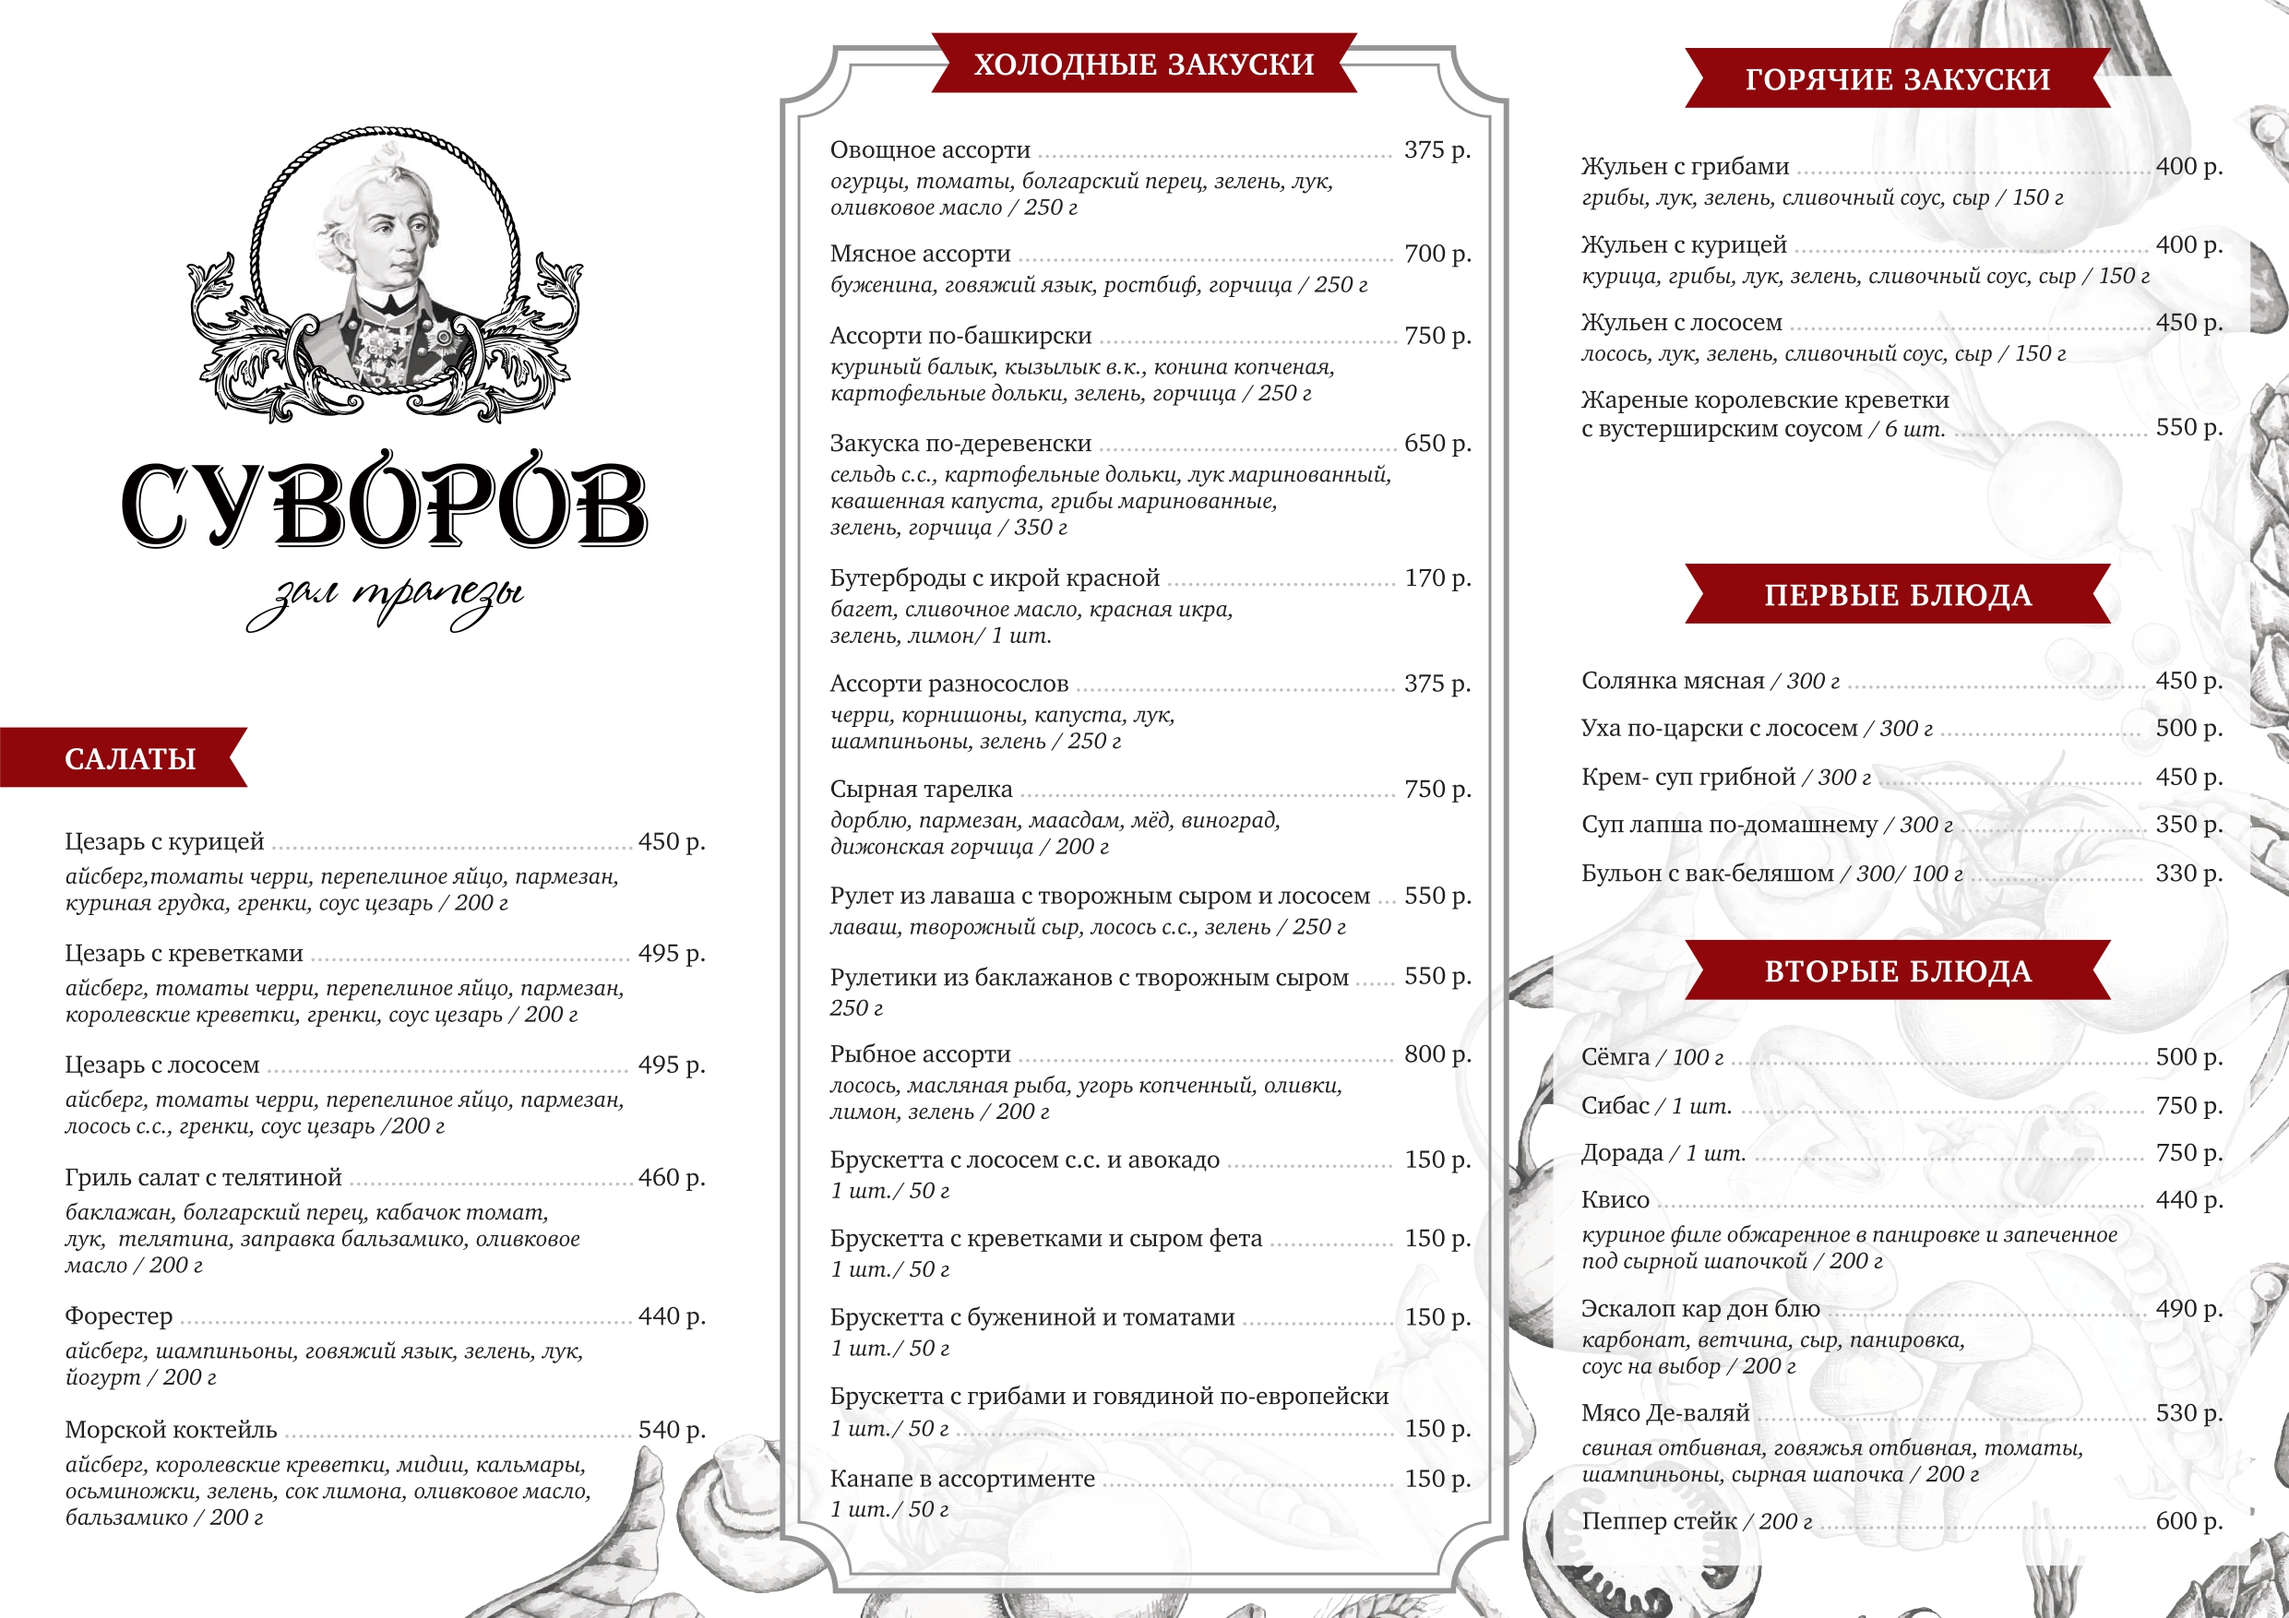
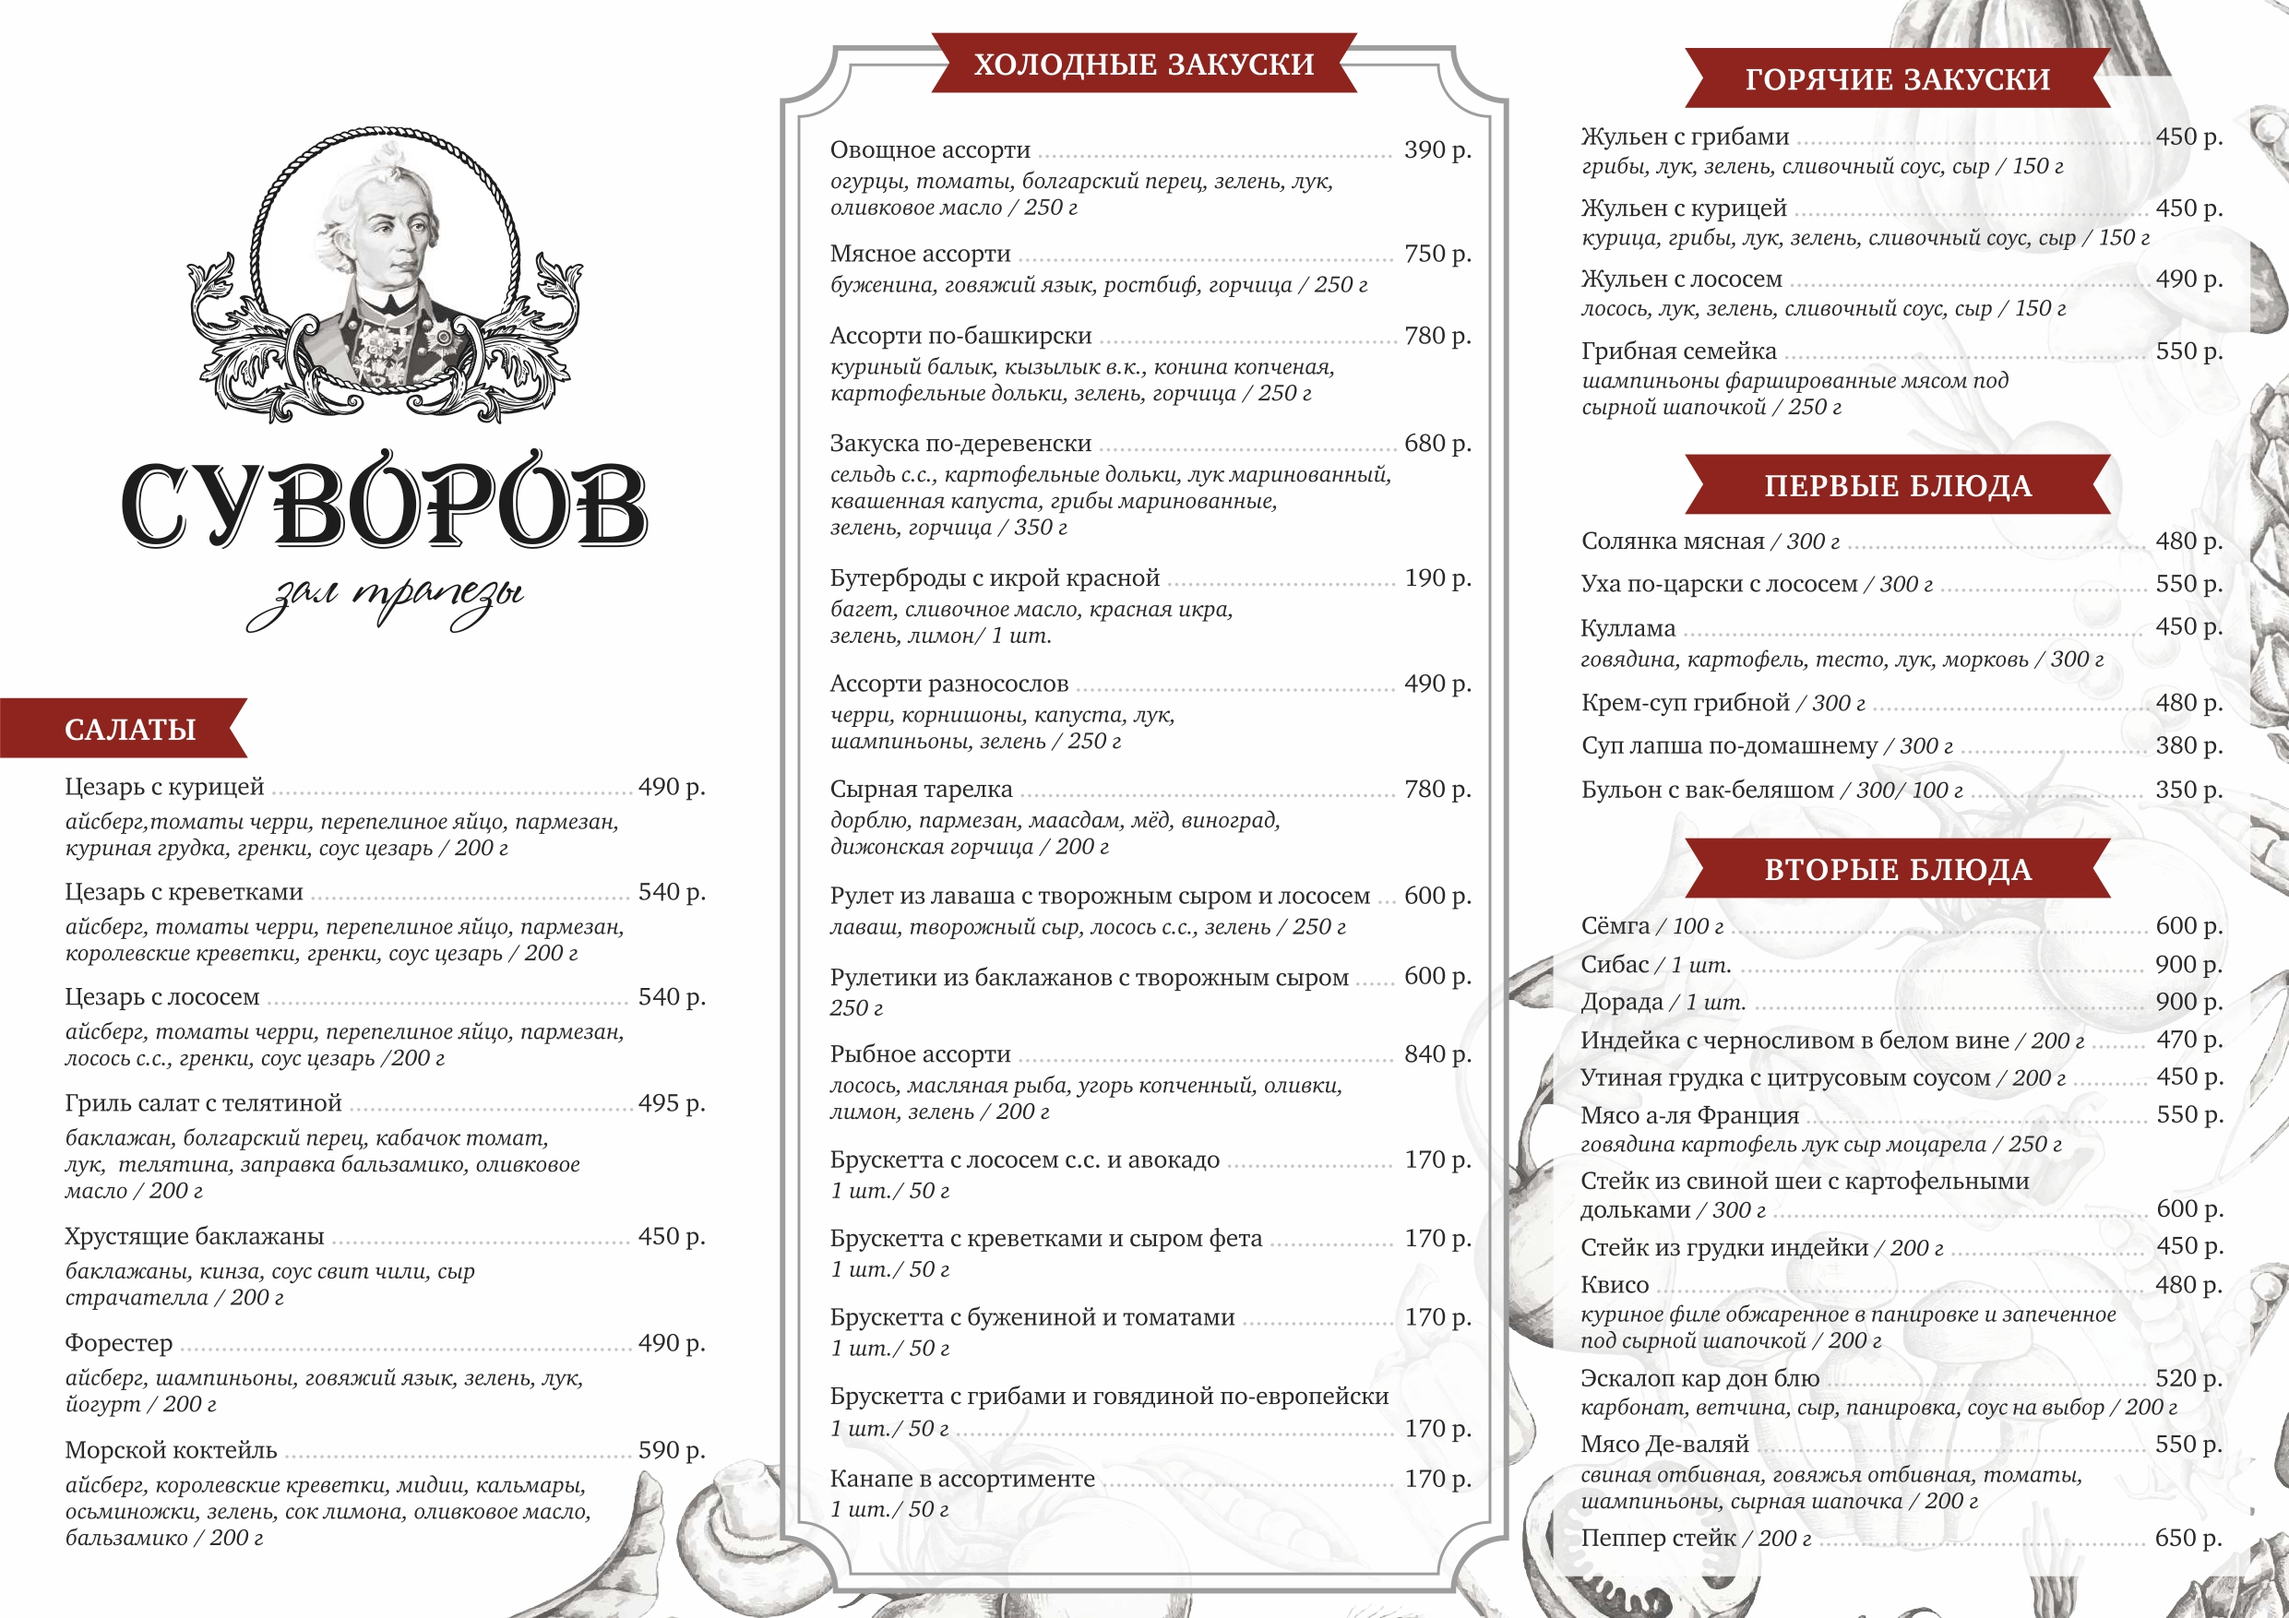
fix video and update menu

diff --git a/src/components/app/main/main.jsx b/src/components/app/main/main.jsx
@@ -22,6 +22,7 @@ import gallery6 from "../../../Images/gallery/6.jpg";
 import gallery7 from "../../../Images/gallery/7.jpg";
 import gallery8 from "../../../Images/gallery/8.jpg";
 import video from "../../../video/video_2024-10-31_20-42-03.mp4";
+import preview from "../../../Images/preview.png";
 const Main = React.memo((props) => {
   return (
     <div>
@@ -165,7 +166,9 @@ const Main = React.memo((props) => {
             <Image src={gallery8}/>
           </div>
         </Image.PreviewGroup>
-        <video style={{'max-width': '100%'}} controls={true} src={video}></video>
+        <div className='column align-center'>
+          <video style={{'max-width': '100%'}} controls={true} src={video} poster={preview}></video>
+        </div>
       </section>
       <section
           className="column align-center gap-24"
